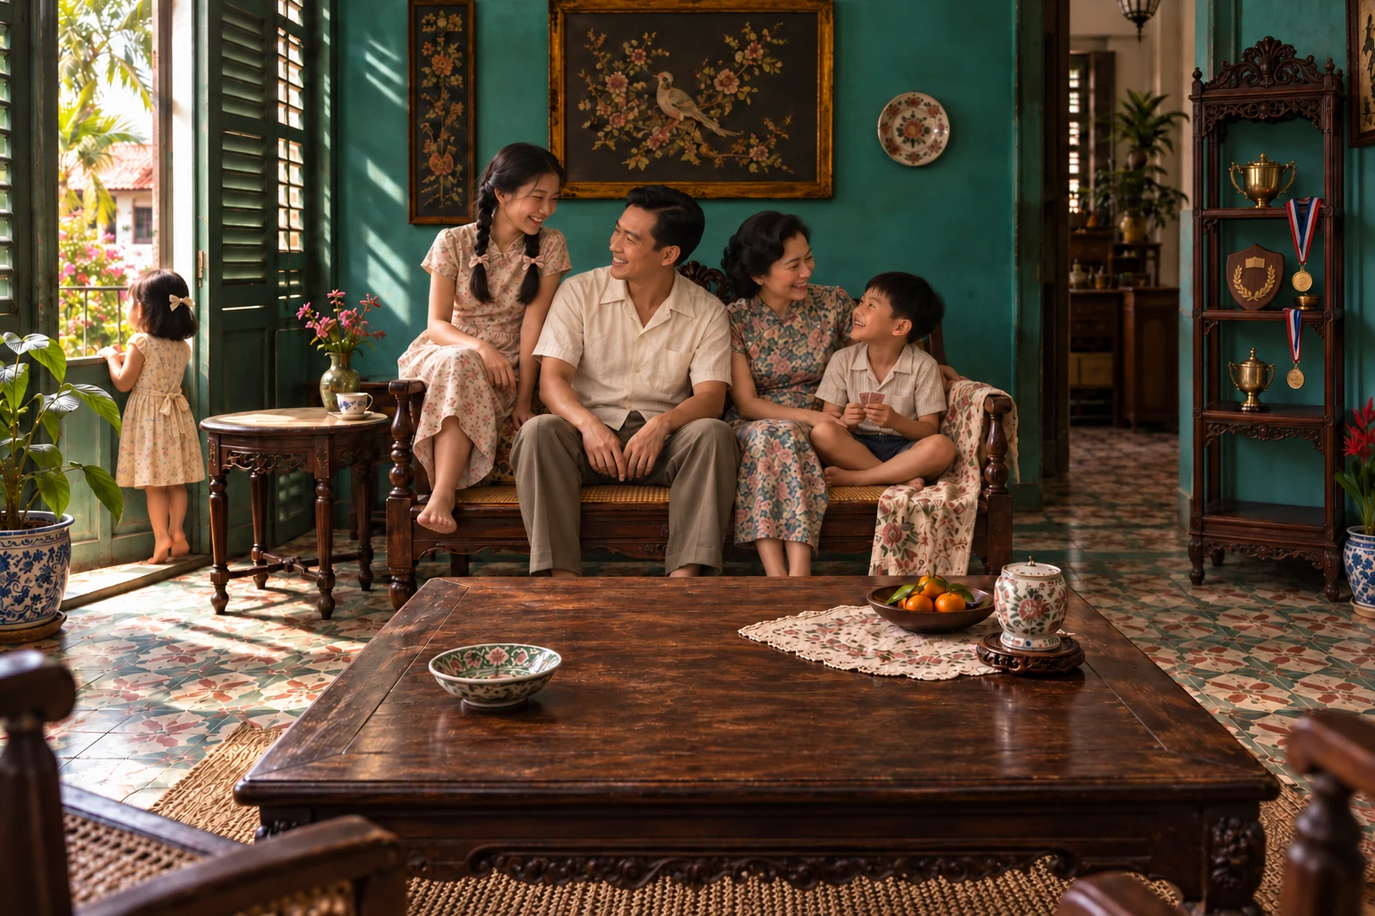
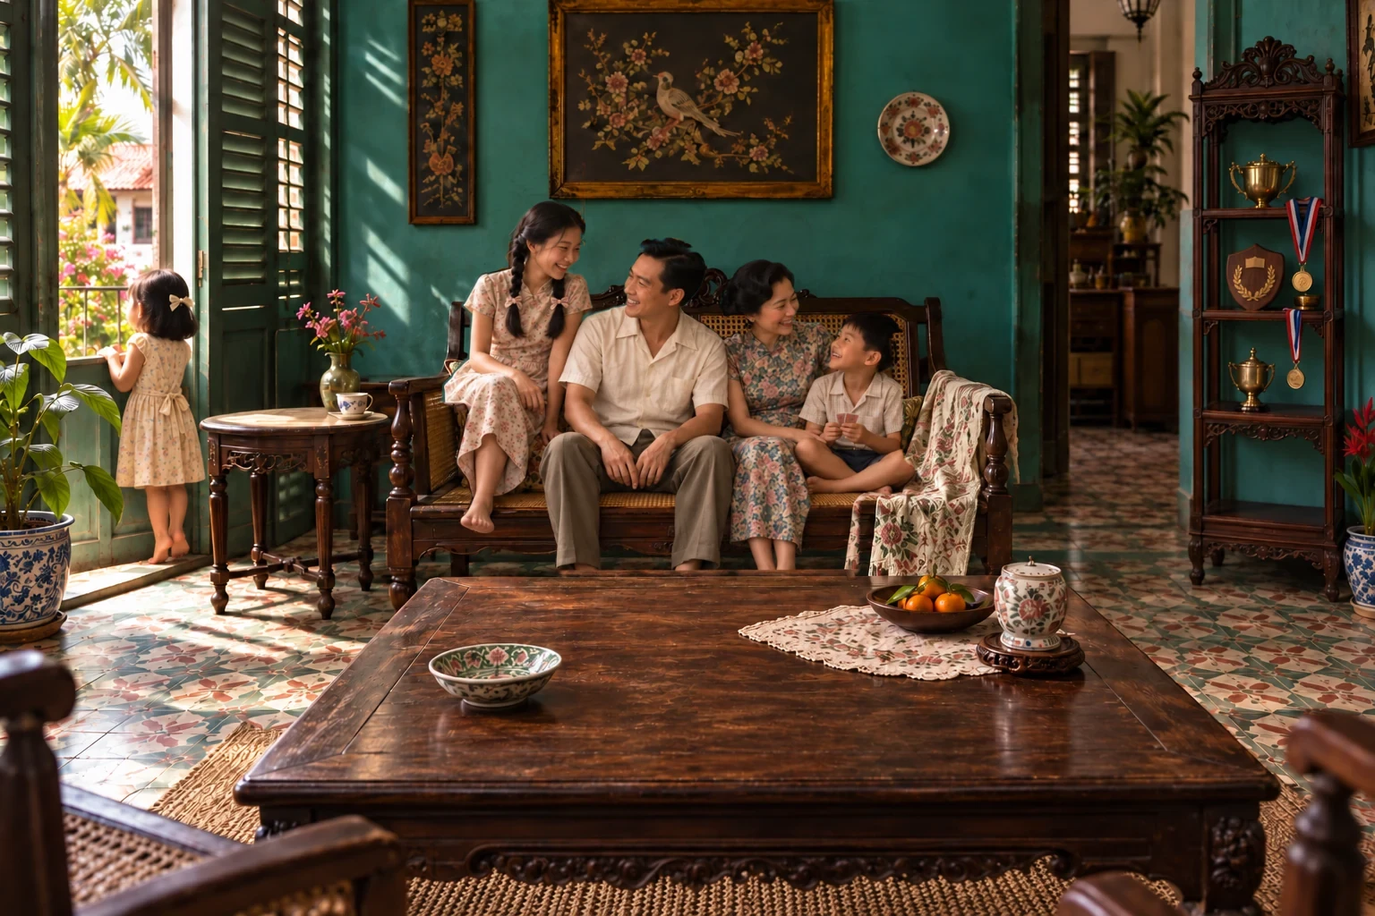
Scale the settee family to the room and turn it into a four-step tour
The four figures on the rattan settee were drawn far larger than the rest
of the scene: their heads reached the painting and dwarfed the girl at the
window and the children at the table. Cut the group out against the clean
room plate, scale it to 85% about the seat line, and composite it back over
the restored settee, so the carved crest and cane back read behind them
again. The same edit is baked into the background, foreground and complete
plates, keeping the table children in front where they occlude the legs.

The section now reads as a guided tour of the commission. The markers are
numbered one to four and run west, south, east, north: interviews at the
window, collecting your things at the table, crafting your memories at the
shelf, and the reunion on the settee, which fills the last of the colour.
Choosing a step opens a card that explains that stage, floated beside its
subject on wide screens and, where the room is too small to clear the faces
in it, as a panel directly beneath the picture. Without scripting the four
steps simply read as a list under the finished room.

Claude-Session: https://claude.ai/code/session_01Xx8vpHjctyenmWZSZSXDH6

Changed region(s): [[0.2812, 0.1562, 0.7188, 0.6562]]

diff --git a/index.html b/index.html
@@ -803,7 +803,7 @@
       .reveal { opacity: 1; transform: none; }
     }
   </style>
-  <link rel="stylesheet" href="assets/memory-room.css?v=2">
+  <link rel="stylesheet" href="assets/memory-room.css?v=3">
 </head>
 
 <body>
@@ -908,46 +908,70 @@
       <span class="seam-tick seam-tick--next" aria-hidden="true"></span>
       <header class="memory-intro">
         <div>
-          <p class="memory-kicker">The shape of a memory</p>
-          <h2 id="artefacts-title">There are ways<br>to <em>live it again.</em></h2>
+          <p class="memory-kicker">How a commission unfolds</p>
+          <h2 id="artefacts-title">Four steps<br>to <em>live it again.</em></h2>
         </div>
-        <p class="memory-invitation">Choose a familiar corner.<br>Watch the memories return.<span>Touch the table, settee, window or shelf.</span></p>
+        <p class="memory-invitation">Begin at the window, then travel the room.<br>Each step returns its own colour.<span>Choose each numbered marker in turn.</span></p>
       </header>
 
       <div class="memory-exhibit">
         <div class="memory-exhibit__top">
           <p>An imagined home, Singapore, c. 1955</p>
-          <span>A room full of stories</span>
+          <span id="roomProgress">Four steps</span>
         </div>
-        <div class="memory-room" id="memoryRoom" role="group" aria-label="Reveal family memories in a Peranakan living room" aria-describedby="roomInstructions">
-          <p class="memory-sr" id="roomInstructions">Choose any of the four objects. Its memory will gently appear in colour and stay. You can explore in any order, without leaving the room.</p>
-          <div class="memory-room__canvas">
-            <img class="memory-room__image" src="assets/memory-room/room-empty.webp" width="1536" height="1024" loading="lazy" decoding="async" alt="A sunlit Peranakan room with an open window on the left, a carved rattan settee, a walnut table and an empty display shelf on the right.">
-            <!-- The completed background stays behind the foreground children. -->
-            <img class="memory-room__complete" id="roomComplete" data-src="assets/memory-room/room-background.webp" width="1536" height="1024" alt="" aria-hidden="true">
-            <img class="memory-recollection" data-recollection="settee" data-src="assets/memory-room/room-background.webp" width="1536" height="1024" alt="" aria-hidden="true">
-            <img class="memory-recollection" data-recollection="window" data-src="assets/memory-room/room-background.webp" width="1536" height="1024" alt="" aria-hidden="true">
-            <img class="memory-recollection" data-recollection="shelf" data-src="assets/memory-room/room-background.webp" width="1536" height="1024" alt="" aria-hidden="true">
-            <img class="memory-recollection" data-recollection="table" data-src="assets/memory-room/room-foreground.webp" width="1536" height="1024" alt="" aria-hidden="true">
-            <noscript><img class="memory-room__static" src="assets/memory-room/room-complete.webp" width="1536" height="1024" loading="lazy" alt="The room filled with family memories: children playing cards, a laughing family on the settee, a girl on tiptoes at the window, and trophies on the shelf."></noscript>
-            <span class="memory-room__shade" aria-hidden="true"></span>
-            <button class="memory-hotspot memory-hotspot--table" type="button" data-memory="table" data-label="The table" style="--x:53%;--y:81%;--hit-w:76%;--hit-h:34%" aria-label="Reveal children playing cards around the table">
-              <span class="memory-hotspot__marker" aria-hidden="true"></span><span class="memory-hotspot__label">The table</span>
-            </button>
-            <button class="memory-hotspot memory-hotspot--settee" type="button" data-memory="settee" data-label="The settee" style="--x:52%;--y:43%;--hit-w:43%;--hit-h:40%" aria-label="Reveal a family laughing together on the settee">
-              <span class="memory-hotspot__marker" aria-hidden="true"></span><span class="memory-hotspot__label">The settee</span>
-            </button>
-            <button class="memory-hotspot memory-hotspot--window" type="button" data-memory="window" data-label="The window" style="--x:11.5%;--y:35%;--hit-w:17%;--hit-h:45%" aria-label="Reveal a little girl peeking out of the window">
-              <span class="memory-hotspot__marker" aria-hidden="true"></span><span class="memory-hotspot__label">The window</span>
-            </button>
-            <button class="memory-hotspot memory-hotspot--shelf" type="button" data-memory="shelf" data-label="The shelf" style="--x:91.5%;--y:34%;--hit-w:13%;--hit-h:53%" aria-label="Reveal the trophies and medals on the shelf">
-              <span class="memory-hotspot__marker" aria-hidden="true"></span><span class="memory-hotspot__label">The shelf</span>
-            </button>
+        <div class="memory-stage">
+          <div class="memory-room" id="memoryRoom" role="group" aria-label="The four steps of a General Memory commission, shown in a Peranakan living room" aria-describedby="roomInstructions">
+            <p class="memory-sr" id="roomInstructions">Four numbered steps describe how a commission unfolds. Choose a step to bring its part of the room into colour and read what happens at that stage. You may take them in any order; the fourth completes the room.</p>
+            <div class="memory-room__canvas">
+              <img class="memory-room__image" src="assets/memory-room/room-empty.webp" width="1536" height="1024" loading="lazy" decoding="async" alt="A sunlit Peranakan room with an open window on the left, a carved rattan settee, a walnut table and an empty display shelf on the right.">
+              <!-- The completed background stays behind the foreground children. -->
+              <img class="memory-room__complete" id="roomComplete" data-src="assets/memory-room/room-background.webp?v=3" width="1536" height="1024" alt="" aria-hidden="true">
+              <img class="memory-recollection" data-recollection="settee" data-src="assets/memory-room/room-background.webp?v=3" width="1536" height="1024" alt="" aria-hidden="true">
+              <img class="memory-recollection" data-recollection="window" data-src="assets/memory-room/room-background.webp?v=3" width="1536" height="1024" alt="" aria-hidden="true">
+              <img class="memory-recollection" data-recollection="shelf" data-src="assets/memory-room/room-background.webp?v=3" width="1536" height="1024" alt="" aria-hidden="true">
+              <img class="memory-recollection" data-recollection="table" data-src="assets/memory-room/room-foreground.webp?v=3" width="1536" height="1024" alt="" aria-hidden="true">
+              <noscript><img class="memory-room__static" src="assets/memory-room/room-complete.webp?v=3" width="1536" height="1024" loading="lazy" alt="The room filled with family memories: children playing cards, a laughing family on the settee, a girl on tiptoes at the window, and trophies on the shelf."></noscript>
+              <span class="memory-room__shade" aria-hidden="true"></span>
+              <button class="memory-hotspot memory-hotspot--window" type="button" data-memory="window" data-label="Step one, interviews" style="--x:11.5%;--y:35%;--hit-w:17%;--hit-h:45%" aria-label="Step one, interviews. Open this step.">
+                <span class="memory-hotspot__marker" aria-hidden="true"><b>1</b></span><span class="memory-hotspot__label">1 &middot; Interviews</span>
+              </button>
+              <button class="memory-hotspot memory-hotspot--table" type="button" data-memory="table" data-label="Step two, collecting your things" style="--x:53%;--y:81%;--hit-w:76%;--hit-h:34%" aria-label="Step two, collecting your things. Open this step.">
+                <span class="memory-hotspot__marker" aria-hidden="true"><b>2</b></span><span class="memory-hotspot__label">2 &middot; Collecting your things</span>
+              </button>
+              <button class="memory-hotspot memory-hotspot--shelf" type="button" data-memory="shelf" data-label="Step three, crafting your memories" style="--x:91.5%;--y:34%;--hit-w:13%;--hit-h:53%" aria-label="Step three, crafting your memories. Open this step.">
+                <span class="memory-hotspot__marker" aria-hidden="true"><b>3</b></span><span class="memory-hotspot__label">3 &middot; Crafting your memories</span>
+              </button>
+              <button class="memory-hotspot memory-hotspot--settee" type="button" data-memory="settee" data-label="Step four, the reunion" style="--x:52%;--y:43%;--hit-w:43%;--hit-h:40%" aria-label="Step four, the reunion. Open this step.">
+                <span class="memory-hotspot__marker" aria-hidden="true"><b>4</b></span><span class="memory-hotspot__label">4 &middot; The reunion</span>
+              </button>
+            </div>
+            <p class="memory-scene-error" id="roomImageError" hidden>The memory is taking a little longer to arrive. Touch a step to try again.</p>
           </div>
-          <p class="memory-scene-error" id="roomImageError" hidden>The memory is taking a little longer to arrive. Touch an object to try again.</p>
+          <div class="memory-steps" id="roomSteps">
+            <article class="memory-step memory-step--window" data-step="window">
+              <p class="memory-step__index">Step one</p>
+              <h3>Interviews</h3>
+              <p>We begin by listening. A series of unhurried conversations &mdash; many hours, across several sittings, with you and with the people who share your story &mdash; until the shape of a life comes through.</p>
+            </article>
+            <article class="memory-step memory-step--table" data-step="table">
+              <p class="memory-step__index">Step two</p>
+              <h3>Collecting your things</h3>
+              <p>Our team comes to you and gathers everything: documents, photographs, the videos taken over the years, letters, keepsakes. We store them safely, arrange and curate them, and make sense of them for you.</p>
+            </article>
+            <article class="memory-step memory-step--shelf" data-step="shelf">
+              <p class="memory-step__index">Step three</p>
+              <h3>Crafting your memories</h3>
+              <p>Then four to six weeks at the bench. Everything learned in the interviews and everything gathered becomes a set of beautiful objects, designed to hold your memories and life stories &mdash; and to keep growing with them.</p>
+            </article>
+            <article class="memory-step memory-step--settee" data-step="settee">
+              <p class="memory-step__index">Step four</p>
+              <h3>The reunion</h3>
+              <p>We sit down with you and your family, present everything we have made, walk through the life stories together, and show you how to live with the objects that now hold them.</p>
+            </article>
+          </div>
         </div>
         <div class="memory-exhibit__bottom">
-          <p class="memory-room__caption" id="roomCaption">Some rooms never really leave us.</p>
+          <p class="memory-room__caption" id="roomCaption">Four steps, and the room comes back.</p>
           <button class="memory-reset" id="memoryReset" type="button" disabled aria-label="Return the room to black and white">Begin again</button>
         </div>
         <p class="memory-sr" id="roomAnnouncement" role="status" aria-live="polite" aria-atomic="true"></p>
@@ -1419,6 +1443,6 @@
       document.querySelectorAll('.reveal').forEach(element => element.classList.add('is-visible'));
     }
   </script>
-  <script src="assets/memory-room.js?v=2" defer></script>
+  <script src="assets/memory-room.js?v=3" defer></script>
 </body>
 </html>

diff --git a/assets/memory-room.css b/assets/memory-room.css
@@ -30,9 +30,8 @@
 .memory-hotspot{position:absolute;z-index:4;left:var(--x);top:var(--y);display:none;width:var(--hit-w);height:var(--hit-h);min-width:48px;min-height:48px;padding:0;border:0;border-radius:0;background:transparent;color:#fff4dc;cursor:pointer;transform:translate(-50%,-50%);touch-action:manipulation}
 .js .memory-hotspot{display:block}
 .memory-hotspot__marker{position:absolute;top:50%;left:50%;display:grid;place-items:center;width:46px;height:46px;border:1px solid #f0e3cba8;border-radius:50%;background:#111713c9;color:#fff2d6;transform:translate(-50%,-50%);box-shadow:0 0 0 5px #eadbc515;pointer-events:none;transition:opacity .6s ease,background .35s ease,box-shadow .35s ease}
-.memory-hotspot__marker::before,.memory-hotspot__marker::after{content:'';position:absolute;width:13px;height:1px;background:currentColor;transition:transform .4s ease}
-.memory-hotspot__marker::after{transform:rotate(90deg)}
-.memory-hotspot__label{position:absolute;left:50%;top:calc(50% + 33px);width:max-content;max-width:15rem;padding:.25rem .65rem .3rem;border:1px solid #d8c9a03d;background:#111713ed;color:#f1e7d2;font-size:.9375rem;line-height:1.4;white-space:nowrap;transform:translateX(-50%);pointer-events:none;transition:opacity .6s ease}
+.memory-hotspot__marker b{font:400 1.0625rem/1 var(--display);letter-spacing:.01em}
+.memory-hotspot__label{position:absolute;left:50%;top:calc(50% + 33px);width:max-content;max-width:16rem;padding:.25rem .65rem .3rem;border:1px solid #d8c9a03d;background:#111713ed;color:#f1e7d2;font-size:.9375rem;line-height:1.4;white-space:nowrap;transform:translateX(-50%);pointer-events:none;transition:opacity .6s ease}
 .memory-hotspot--window .memory-hotspot__label{left:calc(50% - 23px);transform:none}
 .memory-hotspot--shelf .memory-hotspot__label{left:auto;right:calc(50% - 23px);transform:none}
 .memory-hotspot--table .memory-hotspot__label,.memory-hotspot--settee .memory-hotspot__label{top:auto;bottom:calc(50% + 33px)}
@@ -40,10 +39,25 @@
 .memory-hotspot:focus-visible .memory-hotspot__marker{background:#edddbb;color:#172017;box-shadow:0 0 0 8px #efdeb828}
 .memory-hotspot.is-revealed{cursor:default}
 .memory-hotspot.is-revealed .memory-hotspot__marker,.memory-hotspot.is-revealed .memory-hotspot__label{opacity:0;transition-delay:900ms}
-.memory-hotspot.is-revealed .memory-hotspot__marker::after{transform:rotate(0)}
 .memory-hotspot.is-revealed:focus-visible .memory-hotspot__marker,.memory-hotspot.is-revealed:focus-visible .memory-hotspot__label{opacity:1;transition-delay:0ms}
 .memory-hotspot[aria-busy='true'] .memory-hotspot__marker{background:#d4bd8b;color:#162018}
-.memory-hotspot[aria-busy='true'] .memory-hotspot__marker::after{transform:rotate(0)}
+/* Four numbered steps. Choosing one fills its corner of the room and opens the
+   card that explains that stage of the work. */
+.memory-stage{position:relative}
+.memory-steps{position:absolute;inset:0;z-index:5;pointer-events:none}
+.memory-step{position:absolute;left:var(--sx);top:var(--sy);width:var(--sw,27%);min-width:13rem;max-width:23rem;padding:.95rem 1.2rem 1.05rem;border:1px solid #d8c9a042;background:#0e130f;box-shadow:0 1.1rem 2.6rem #00000070;color:#e9e3d3;opacity:0;visibility:hidden;transform:translate(var(--tx,0),var(--ty,0));transition:opacity .8s ease}
+.memory-step.is-current{opacity:1;visibility:visible}
+.memory-step::before{content:'';position:absolute;background:#d8c9a05c}
+.memory-step--window{--sx:20.5%;--sy:20%}
+.memory-step--table{--sx:50%;--sy:51%;--tx:-50%;--ty:-100%;--sw:33%}
+.memory-step--shelf{--sx:82%;--sy:20%;--tx:-100%}
+.memory-step--settee{--sx:50%;--sy:3%;--tx:-50%;--sw:38%}
+.memory-step--window::before{left:-1.5rem;top:2rem;width:1.5rem;height:1px}
+.memory-step--shelf::before{right:-1.5rem;top:2rem;width:1.5rem;height:1px}
+.memory-step--table::before,.memory-step--settee::before{left:50%;bottom:-1.4rem;width:1px;height:1.4rem}
+.memory-step__index{margin:0 0 .55rem;color:#cbb386;font-size:.75rem;font-weight:400;letter-spacing:.16em;text-transform:uppercase}
+.memory-step h3{margin:0 0 .5rem;font:300 clamp(1.2rem,1.5vw,1.6rem)/1.12 var(--display);letter-spacing:-.01em;color:#f4ecda}
+.memory-step p{margin:0;font-size:.875rem;line-height:1.6;color:#c8c7b7}
 .memory-exhibit__bottom{min-height:5rem;border-top:1px solid #595d4b;color:#c9c8b7}
 .memory-room__caption{margin:0;max-width:65ch;font:italic 400 clamp(1.125rem,1.65vw,1.5rem)/1.4 var(--display)}
 .memory-reset{flex:0 0 auto;border:0;border-bottom:1px solid #9b9e8866;padding:.5rem 0;min-height:44px;background:none;color:#e2d3b5;font-size:.875rem;cursor:pointer}
@@ -58,9 +72,26 @@
 .memory-sr{position:absolute;width:1px;height:1px;padding:0;margin:-1px;overflow:hidden;clip:rect(0,0,0,0);white-space:nowrap;border:0}
 html:not(.js) .reveal{opacity:1;transform:none}
 html:not(.js) .memory-reset,html:not(.js) .memory-invitation,html:not(.js) #roomInstructions{display:none}
+html:not(.js) .memory-steps{position:static}
+html:not(.js) .memory-step{position:static;width:auto;min-width:0;max-width:none;transform:none;opacity:1;visibility:visible;border-width:1px 0 0;background:#121611;box-shadow:none}
+html:not(.js) .memory-step::before{display:none}
 @media(hover:hover) and (pointer:fine){
 .memory-hotspot:not(.is-revealed):hover .memory-hotspot__marker{background:#edddbb;color:#172017;box-shadow:0 0 0 8px #efdeb828}
 .memory-hotspot.is-revealed:hover .memory-hotspot__marker{opacity:.4;transition-delay:0ms}
+}
+/* Below this the room is too small to float a card clear of the faces in it, so
+   the step reads as a panel directly beneath the picture instead. */
+@media(max-width:1240px){
+.memory-steps{position:static}
+.memory-step{position:static;width:auto;min-width:0;max-width:none;padding:1rem 1.25rem 1.15rem;border-width:1px 0 0;background:#121611;box-shadow:none;transform:none;opacity:1;visibility:visible;pointer-events:auto}
+.js .memory-step{display:none}
+.js .memory-step.is-current{display:block}
+.memory-step::before{display:none}
+}
+/* The step names crowd each other once the room narrows; the numbered markers
+   carry the tour on their own, and the panel below names the step in full. */
+@media(max-width:820px){
+.memory-hotspot__label{display:none}
 }
 @media(max-width:700px){
 .memory-intro{grid-template-columns:1fr;gap:1.2rem;padding-bottom:1.75rem}
@@ -86,9 +117,10 @@ html:not(.js) .memory-reset,html:not(.js) .memory-invitation,html:not(.js) #room
 .memory-scene-error{font-size:.9375rem}
 }
 @media(prefers-reduced-motion:reduce){
-.memory-recollection,.memory-room__complete,.memory-hotspot__marker,.memory-hotspot__label{transition:none!important}
+.memory-recollection,.memory-room__complete,.memory-hotspot__marker,.memory-hotspot__label,.memory-step{transition:none!important}
 }
 @media(forced-colors:active){
 .memory-hotspot__marker{background:Canvas;color:ButtonText;border:2px solid ButtonText}
-.memory-hotspot__label{background:Canvas;color:CanvasText}.memory-hotspot:focus-visible{outline:2px solid Highlight}
+.memory-hotspot__label,.memory-step{background:Canvas;color:CanvasText;border:1px solid CanvasText}
+.memory-hotspot:focus-visible{outline:2px solid Highlight}
 }

diff --git a/assets/memory-room.js b/assets/memory-room.js
@@ -1,4 +1,6 @@
-/* Four independent memories in one room. No routes, dialogs or stored visitor data. */
+/* A four-step tour of the commission, told in one room. Each step fills its own
+   corner with colour and opens the card that explains that stage. No routes,
+   dialogs or stored visitor data. */
 (() => {
   'use strict';
 
@@ -6,6 +8,8 @@
   if (!room) return;
   const buttons = [...room.querySelectorAll('[data-memory]')];
   const layers = [...room.querySelectorAll('[data-recollection]')];
+  const cards = [...document.querySelectorAll('#roomSteps [data-step]')];
+  const progress = document.getElementById('roomProgress');
   const fullScene = document.getElementById('roomComplete');
   const resetButton = document.getElementById('memoryReset');
   const caption = document.getElementById('roomCaption');
@@ -14,24 +18,28 @@
   const reducedMotion = window.matchMedia('(prefers-reduced-motion: reduce)');
   const revealed = new Set();
   const pending = new Set();
+  // The card beside each step carries the wording; only the line for the caption
+  // bar and the scene description live here.
   const descriptions = {
-    table: {
-      caption: 'One more game. Then one more after that.',
-      announcement: 'Children playing cards appear in colour around the table.'
-    },
-    settee: {
-      caption: 'The kind of laughter you can still hear.',
-      announcement: 'A family laughing together appears in colour on the rattan settee.'
-    },
     window: {
-      caption: 'When the world was just beyond the windowsill.',
+      caption: 'Step one. We start by listening, for as long as it takes.',
       announcement: 'A little girl on tiptoes appears in colour, peeking out of the window.'
     },
+    table: {
+      caption: 'Step two. Everything you have kept, gathered and made sense of.',
+      announcement: 'Children playing cards appear in colour around the table.'
+    },
     shelf: {
-      caption: 'Every small triumph, kept with pride.',
+      caption: 'Step three. Four to six weeks at the bench.',
       announcement: 'Trophies and medals appear in colour on the display shelf.'
+    },
+    settee: {
+      caption: 'Step four. We bring your life back to you, in objects you can hold.',
+      announcement: 'A family laughing together appears in colour on the rattan settee.'
     }
   };
+  const restingCaption = caption.textContent;
+  const restingProgress = progress.textContent;
   let imageReady = null;
   let completeTimer = null;
   let resetTimer = null;
@@ -90,6 +98,29 @@
     resetButton.disabled = revealed.size === 0 && pending.size === 0;
   }
 
+  // One card at a time: the step just chosen. The room stays legible, and the
+  // tour reads in the order the markers are numbered.
+  function showCard(key) {
+    cards.forEach(card => card.classList.toggle('is-current', card.dataset.step === key));
+  }
+
+  function updateProgress() {
+    if (!revealed.size) progress.textContent = restingProgress;
+    else if (revealed.size === buttons.length) progress.textContent = 'All four steps';
+    else progress.textContent = revealed.size + ' of 4 steps';
+  }
+
+  // Read the card aloud in parts, so the step number and title do not run into
+  // the sentence that follows them.
+  function cardText(key) {
+    const card = cards.find(item => item.dataset.step === key);
+    if (!card) return '';
+    return [...card.children]
+      .map(part => part.textContent.replace(/\s+/g, ' ').trim())
+      .filter(Boolean)
+      .join('. ');
+  }
+
   function completeRoom() {
     window.clearTimeout(completeTimer);
     const expectedEpoch = epoch;
@@ -97,8 +128,8 @@
     completeTimer = window.setTimeout(() => {
       if (epoch !== expectedEpoch || revealed.size !== buttons.length) return;
       room.classList.add('is-complete');
-      caption.textContent = 'A room is made of the life inside it.';
-      announcement.textContent = 'All four memories are revealed. The whole room is now in colour.';
+      caption.textContent = 'Four steps. A room is made of the life inside it.';
+      announcement.textContent = 'All four steps are open. The whole room is now in colour.';
     }, reducedMotion.matches ? 0 : 2500);
   }
 
@@ -124,15 +155,17 @@
       layers.find(layer => layer.dataset.recollection === key).classList.add('is-revealed');
       button.classList.add('is-revealed');
       button.setAttribute('aria-disabled', 'true');
-      button.setAttribute('aria-label', button.dataset.label + '. Memory revealed.');
+      button.setAttribute('aria-label', button.dataset.label + '. Step open.');
+      showCard(key);
       caption.textContent = descriptions[key].caption;
-      announcement.textContent = descriptions[key].announcement;
+      announcement.textContent = cardText(key) + ' ' + descriptions[key].announcement;
+      updateProgress();
       if (revealed.size === buttons.length) completeRoom();
     } catch (_) {
       if (epoch !== expectedEpoch) return;
       errorMessage.hidden = false;
       caption.textContent = oldCaption;
-      announcement.textContent = 'The memory image could not load. Choose an object again to retry.';
+      announcement.textContent = 'The memory image could not load. Choose a step again to retry.';
     } finally {
       window.clearTimeout(loadingNotice);
       if (epoch === expectedEpoch) {
@@ -164,9 +197,11 @@
       button.setAttribute('aria-label', button.dataset.initialLabel);
     });
     errorMessage.hidden = true;
-    caption.textContent = 'Some rooms never really leave us.';
-    announcement.textContent = 'The room is black and white again. Choose any of the four objects to reveal its memory.';
+    showCard(null);
+    caption.textContent = restingCaption;
+    announcement.textContent = 'The room is black and white again. Choose any of the four steps to open it.';
     updateReset();
+    updateProgress();
     buttons[0].focus({ preventScroll: true });
     resetTimer = window.setTimeout(() => room.classList.remove('is-resetting'), reducedMotion.matches ? 0 : 1000);
   });
